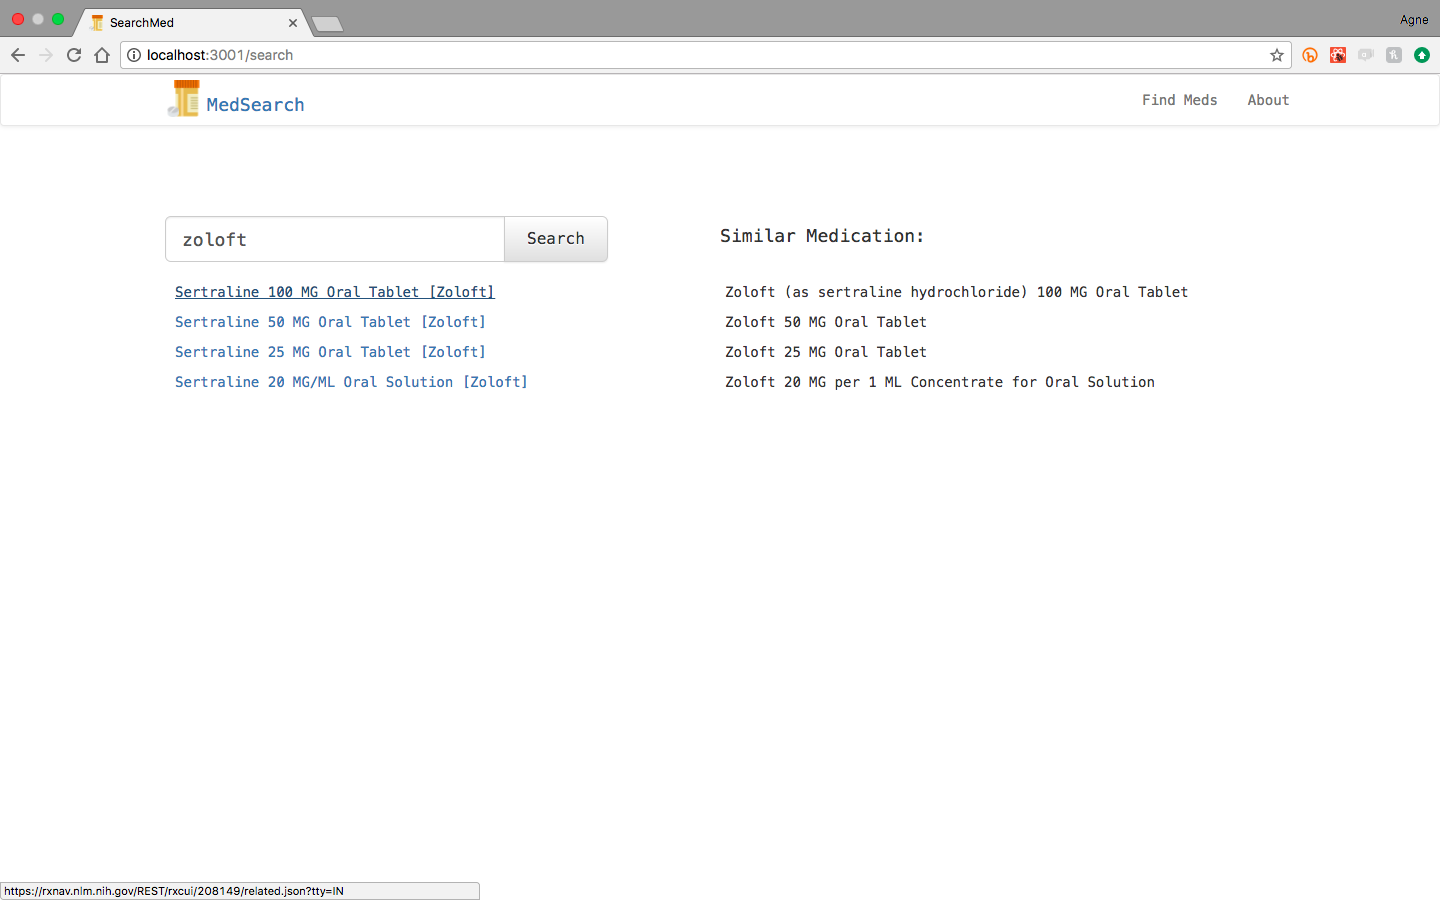
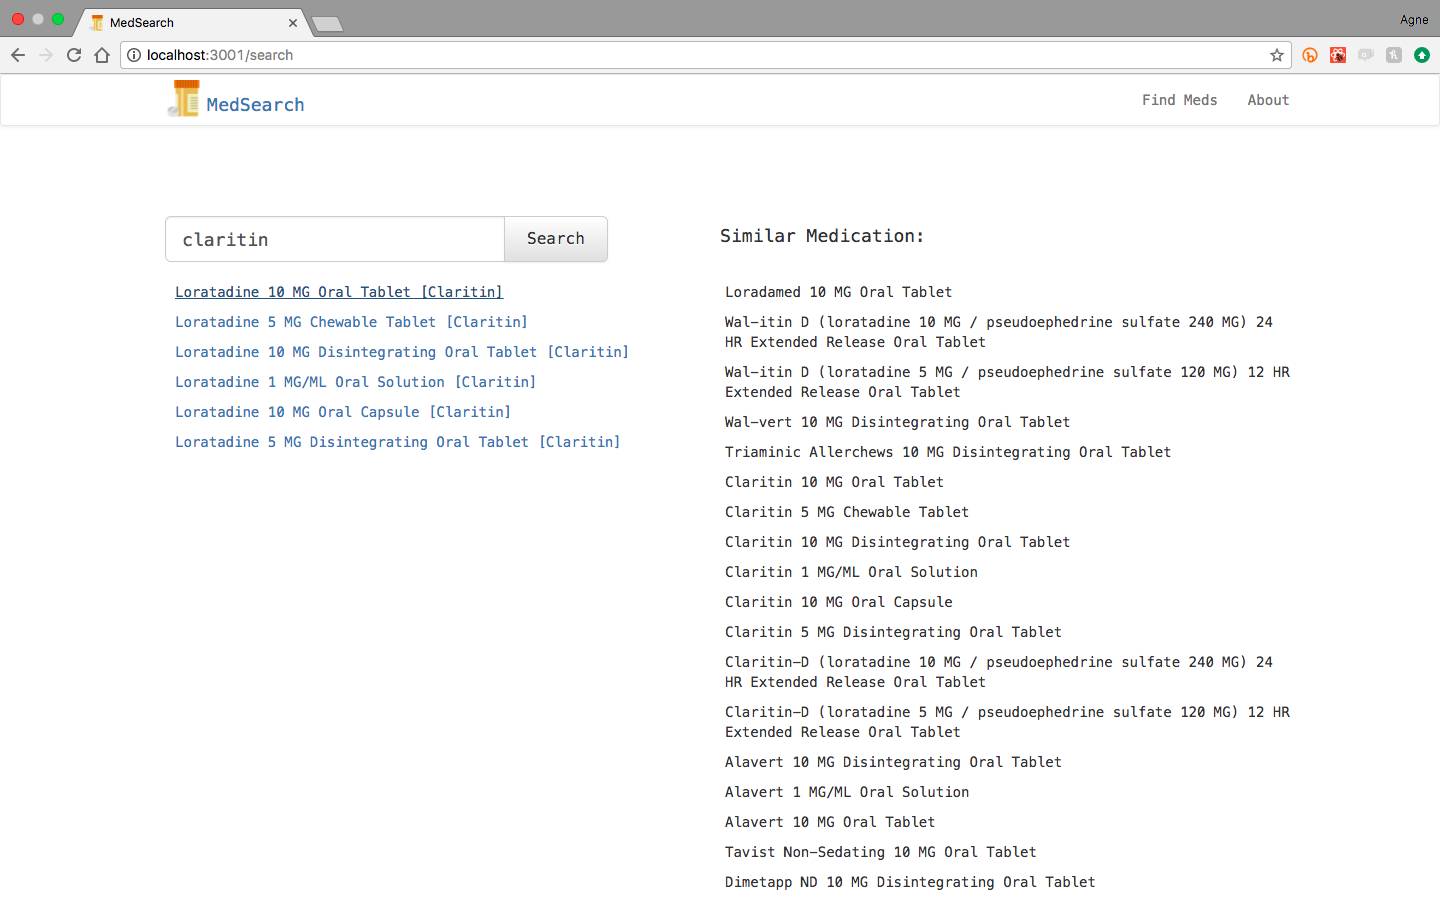
fixed title

diff --git a/public/index.html b/public/index.html
@@ -7,7 +7,7 @@
 
     <link rel="manifest" href="%PUBLIC_URL%/manifest.json">
     <link rel="shortcut icon" href="%PUBLIC_URL%/favicon.ico">
-    <title>SearchMed</title>
+    <title>MedSearch</title>
   </head>
   <body>
     <noscript>

diff --git a/src/components/Main.js b/src/components/Main.js
@@ -22,7 +22,6 @@ class Main extends Component {
 
   handleSubmit(event) {
     event.preventDefault();
-    this.setState({ similarMeds: [''] })
 
     let medicine = RxNormApi.getMedicine(this.state.value);
     medicine.then(data => {
